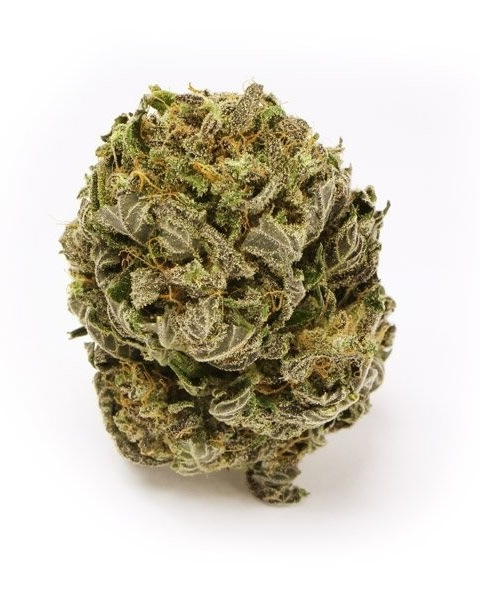
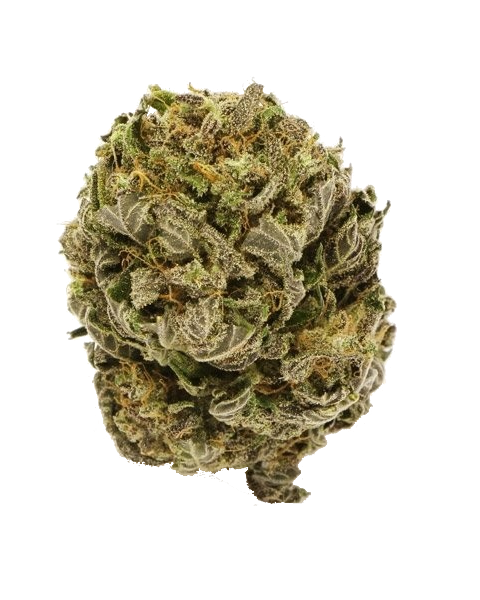
Subo los avances en NaturalezaYUnGramoMas y ColoresYGradiantes

Changed region(s): [[0.2188, 0.63, 0.8125, 0.87], [0.1875, 0.63, 0.2188, 0.72]]

diff --git a/NaturalezaYUnGramoMás/css/style.css b/NaturalezaYUnGramoMás/css/style.css
@@ -16,6 +16,13 @@ header {
     margin: 10px 0;
 }
 
+header h1, h3 {
+    font-weight: bold;
+    background: linear-gradient(90deg, rgb(61, 218, 5), rgb(241, 229, 12), rgb(229, 24, 13));
+    -webkit-background-clip: text;
+    -webkit-text-fill-color: transparent;
+}
+
 main {
     color: white;
     width: 60%;
@@ -36,6 +43,7 @@ ul {
 .imagenProductos {
     width: 250px;
     height: 250px;
+    filter: drop-shadow(50px 5px 50px #000000);
 }
 
 img {
